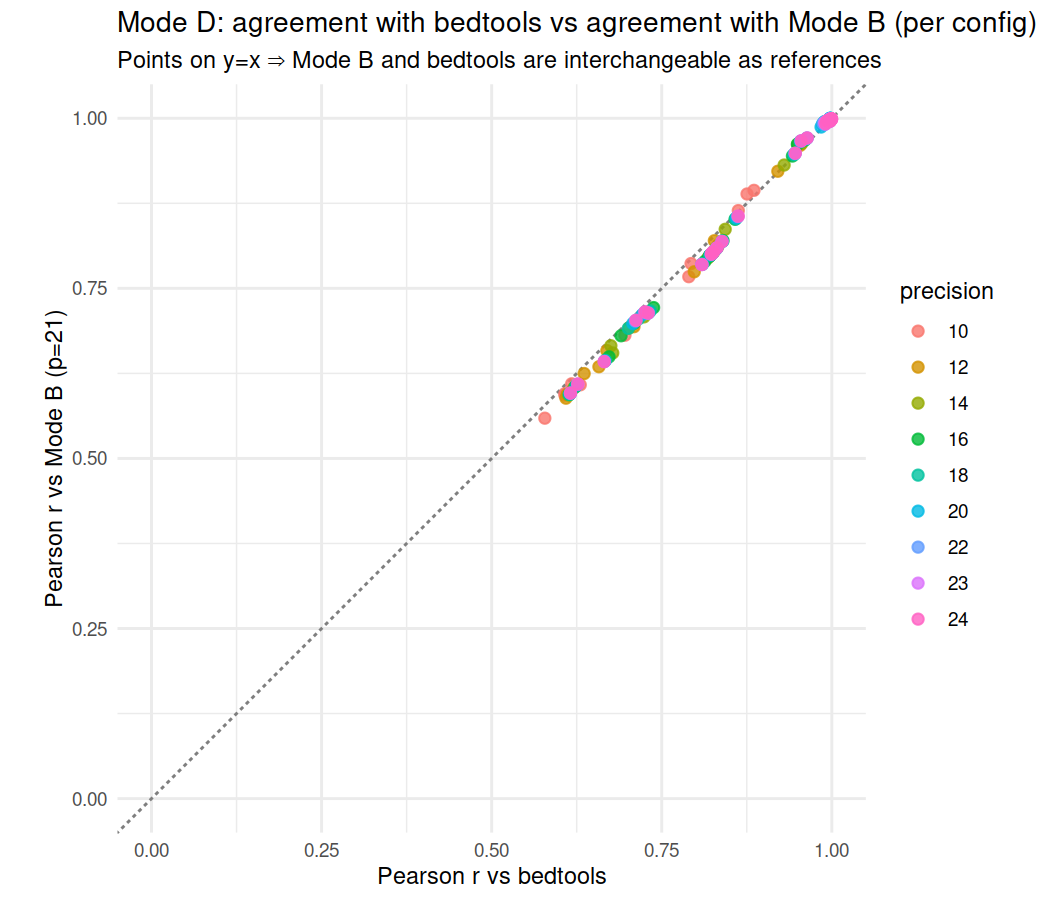
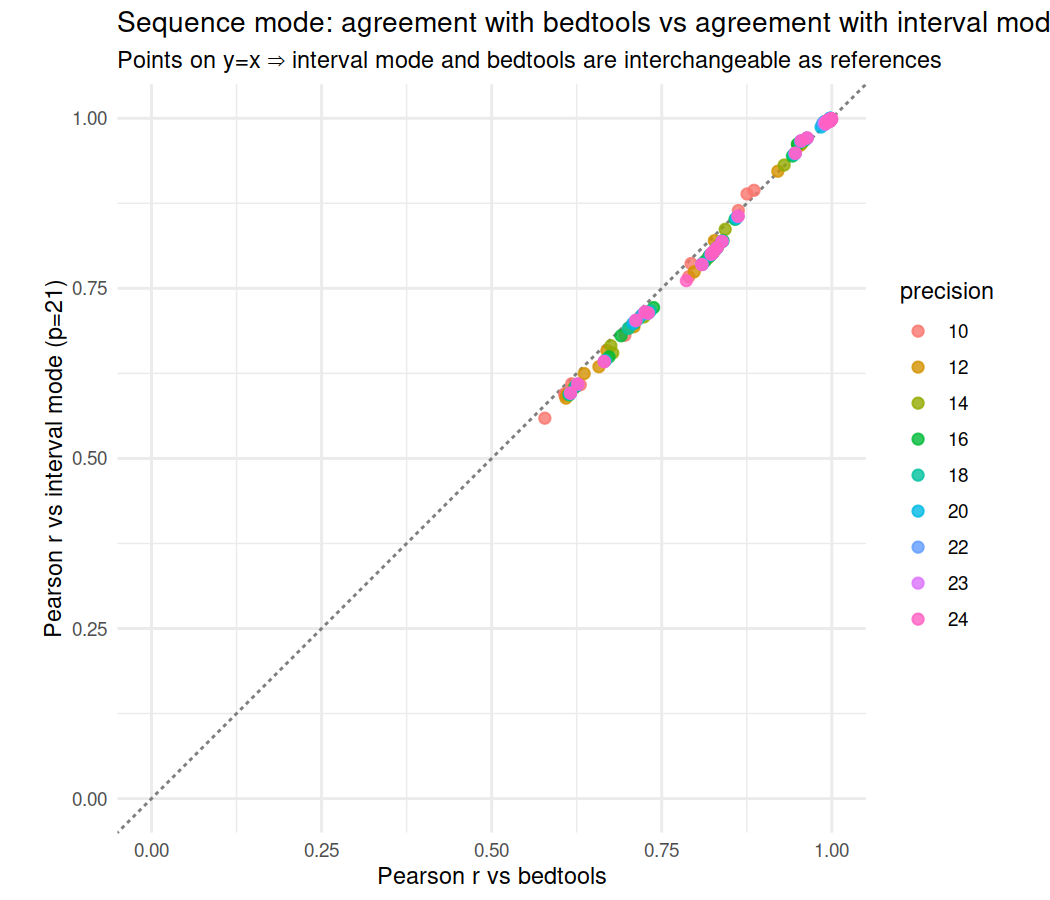
Add docs-local Fig 3 scatter; relabel modes as sequence/interval
Fig 3 (sequence-vs-interval-mode agreement scatter) now has a docs/scripts
generator that rebuilds it from docs/data/mode_d_summary.csv into
docs/figures/, matching the rest of the paper-figure pipeline; paper_outline
repoints to the docs copy.

Relabel "Mode D" -> "Sequence mode" and "Mode B" -> "interval mode" in both
the experiment analyze.R figure and the new docs version. The docs figure is
filtered to HLL precision p=24, colours points by k-mer size, and sizes them
by minimizer window w (discrete scale so small windows stay legible). k=5 is
dropped — at p=24 it has only a single surviving (w=20) point, not a sweep.

Changed region(s): [[0.0914, 0.0, 1.0, 0.0933], [0.0305, 0.3111, 0.061, 0.7156]]

diff --git a/docs/paper_outline.md b/docs/paper_outline.md
@@ -85,7 +85,7 @@ Sequence mode's numerical agreement with bedtools peaks at r = 0.9996 / MAE = 0.
 
 **Fig 3:** Per sequence mode config, Pearson r against bedtools (x-axis) vs Pearson r against interval mode (y-axis); points sit tightly on y = x. Sequence mode's agreement with bedtools is mirrored by its agreement with interval mode, so interval mode is an interchangeable interval-Jaccard reference for sequence mode — once sequence mode is validated against bedtools, it is validated against any reasonable interval-Jaccard estimator.
 
-![Fig 3 — sequence mode vs bedtools and vs interval mode agree per config](../experiments/maurano_dhs_validation/figures/mode_d_bedtools_vs_modeB_scatter.png)
+![Fig 3 — sequence mode vs bedtools and vs interval mode agree per config](figures/mode_d_bedtools_vs_modeB_scatter.png)
 
 **Fig 4:** Two-panel line plot at p = 24, `no_ends` column. **Left panel:** Pearson r vs bedtools as a function of window size w, one colored line per k (k ∈ {8, 10, 15, 20, 25}); the high-k lines (15/20/25) are already saturated at r ≈ 1.0 across all w, while the low-k lines (8, 10) climb toward them as w grows — together tracing the high-k / high-w Pearson ridge. **Right panel:** ARI vs tissue labels on the same axes; the k = 10 line spikes to 0.91 at w = 30 and drops off either side, while the k ∈ {15, 20, 25} lines are flat near ARI ≈ 0.69 for every w (high-k clustering is invariant to w). The contrast — Pearson is a ridge, ARI is a single peak — is the headline that Fig 6's per-config (Pearson, ARI) scatter abstracts. The original Pearson heatmap grid moves to Fig S2.
 
@@ -256,7 +256,7 @@ hammock provides a fast, sketch-based alternative to `bedtools jaccard`. On real
 |---|---|---|
 | 1 | `docs/figures/maurano_speed_bars.png` (data: `docs/data/maurano_subB_summary.csv` + `docs/data/maurano_bedtools.csv`, script: `docs/scripts/maurano_speed.R`) | hammock wall-time bars vs bedtools at no-sub / subB=0.1 / 0.01 |
 | 2 | `docs/figures/synthetic_nscaling.png` (data: `docs/data/cpp_vs_bedtools_t16_20260512_160412.csv`, script: `docs/scripts/synthetic_nscaling.R`) | synthetic scaling to N=512 |
-| 3 | `maurano_dhs_validation/figures/mode_d_bedtools_vs_modeB_scatter.png` | per-config sequence mode r vs bedtools vs interval mode (y=x) |
+| 3 | `docs/figures/mode_d_bedtools_vs_modeB_scatter.png` (data: `docs/data/mode_d_summary.csv`, script: `docs/scripts/mode_d_bedtools_vs_modeB_scatter.R`) | per-config sequence mode r vs bedtools vs interval mode (y=x) |
 | 4 | `docs/figures/mode_d_lines_p24.png` (data: `docs/data/mode_d_summary.csv`, script: `docs/scripts/mode_d_lines.R`) | sequence mode Pearson ridge vs ARI peak at p = 24 |
 | 5 | `maurano_dhs_validation/figures/mode_d_best_dendrogram.png` + `bedtools_dendrogram.png` | tissue recovery (a + b panels) |
 | 6 | `maurano_dhs_validation/figures/mode_d_metric_tradeoff.png` | Pearson-best ≠ ARI-best |
